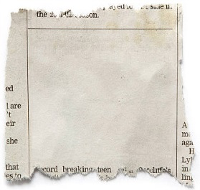
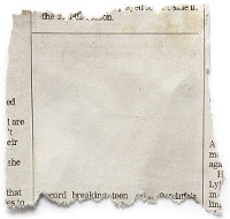
Bigger images, bigger text

diff --git a/BeingTheMurderedHousekeeper/style.css b/BeingTheMurderedHousekeeper/style.css
@@ -14,12 +14,12 @@ body {
 }
 
 .clipText {
-    font-size: 10px;
+    font-size: 10.5px;
 }
 
 h2 {
     font-family: 'Playfair Display', serif;
-    font-weight: 900;
+    font-weight: 600;
     text-transform: uppercase;
     margin-bottom: 0px;
 }
@@ -41,7 +41,7 @@ h2 {
 }
 
 .image-container p {
-    margin-top: 1px;
+    margin-top: 4px;
 }
 
 .centered {

diff --git a/BeingTheMurderedHousekeeper/script.js b/BeingTheMurderedHousekeeper/script.js
@@ -1,5 +1,5 @@
 // Fix the widths of everything
-var textPadding = [15, 60, 60, 25, 20];
+var textPadding = [40, 80, 80, 50, 40];
 for (let i = 1; i < 6; i++) {
     let clipImageWidth = $("#clip" + i + "Image").width();
     console.debug("Set clip1Text width to" + clipImageWidth);
